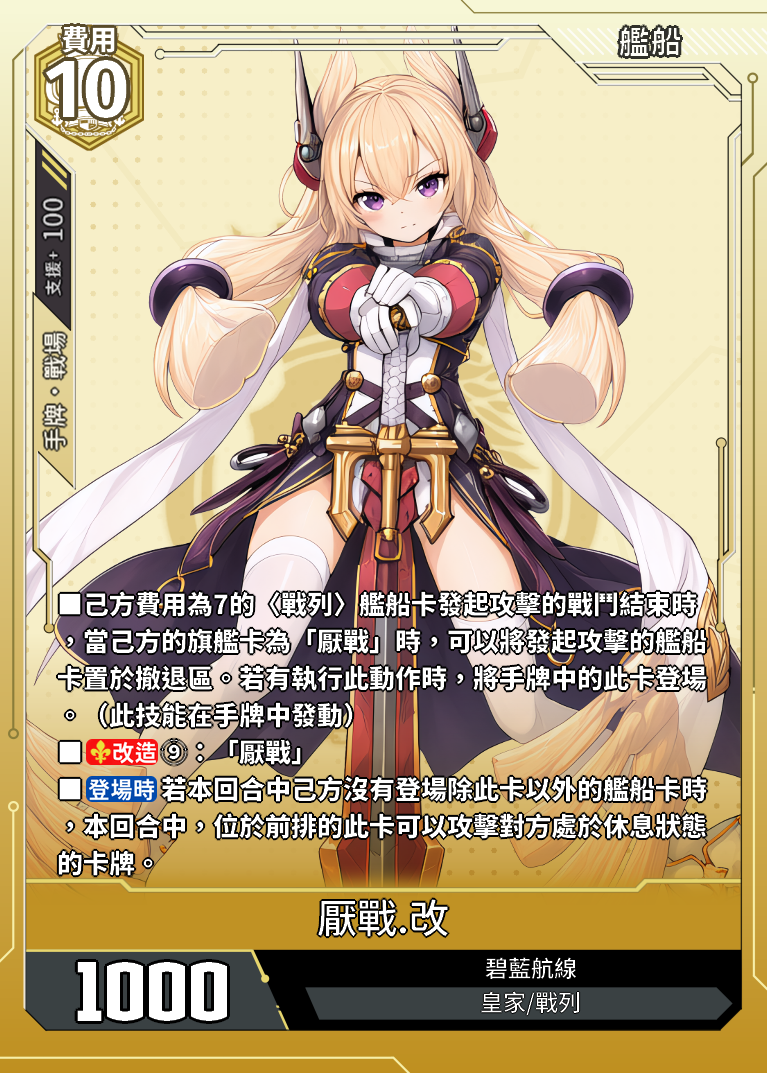
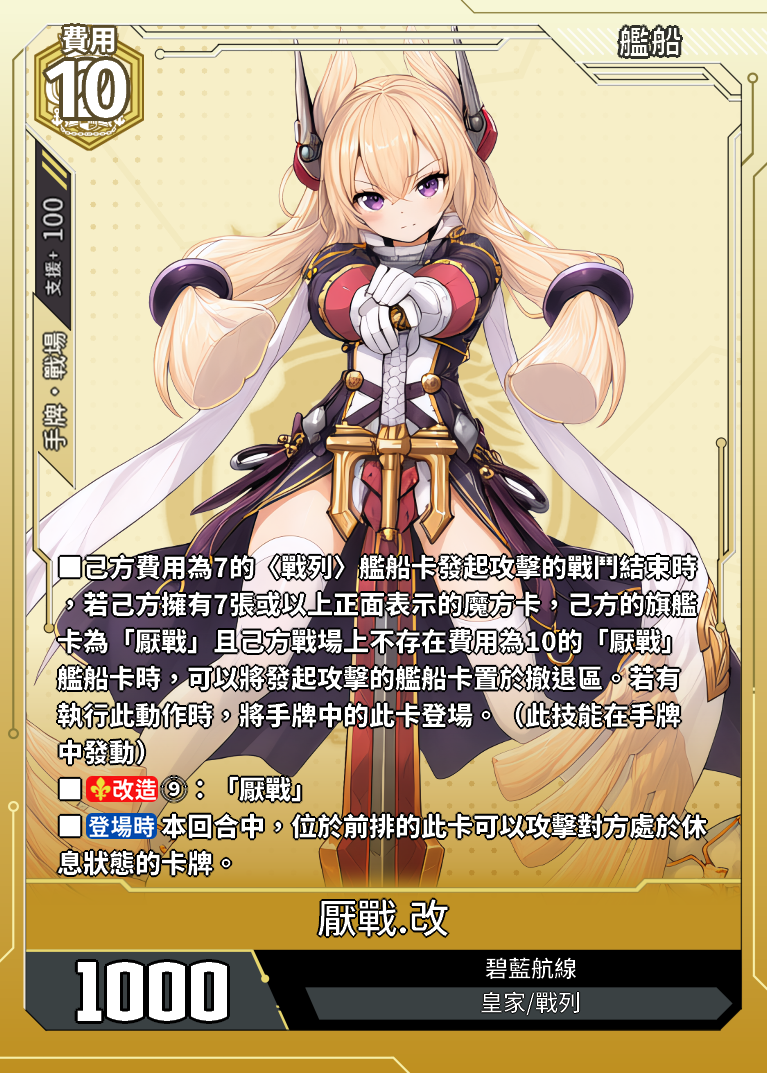
修厭戰改

Changed region(s): [[0.06, 0.4921, 0.9296, 0.8304], [0.1199, 0.0615, 0.1499, 0.0923], [0.09, 0.0923, 0.1199, 0.123]]

diff --git a/data.js b/data.js
@@ -27112,7 +27112,7 @@ const cards = [
             "支援範圍": "手牌·戰場",
             "支援值": "100"
         },
-        "card_effect": "■己方費用為7的〈戰列〉艦船卡發起攻擊的戰鬥結束時，當己方的旗艦卡為「厭戰」時，可以將發起攻擊的艦船卡置於撤退區。若有執行此動作時，將手牌中的此卡登場。（此技能在手牌中發動）■【改造】⑨：「厭戰」■【登場時】當己方的旗艦卡為《皇家》〈戰列〉卡牌，且本回合中己方沒有登場此卡以外的艦船卡時，本回合中，位於前排的此卡可以攻擊對方處於休息狀態的卡牌。",
+        "card_effect": "■己方費用為7的〈戰列〉艦船卡發起攻擊的戰鬥結束時，若己方擁有7張或以上正面表示的魔方卡，己方的旗艦卡為「厭戰」且己方戰場上不存在費用為10的「厭戰」艦船卡時，可以將發起攻擊的艦船卡置於撤退區。若有執行此動作時，將手牌中的此卡登場。（此技能在手牌中發動）■【改造】⑨：「厭戰」■【登場時】本回合中，位於前排的此卡可以攻擊對方處於休息狀態的卡牌。",
         "acquisition_method": "CE03-早期測試"
     },
 	{
